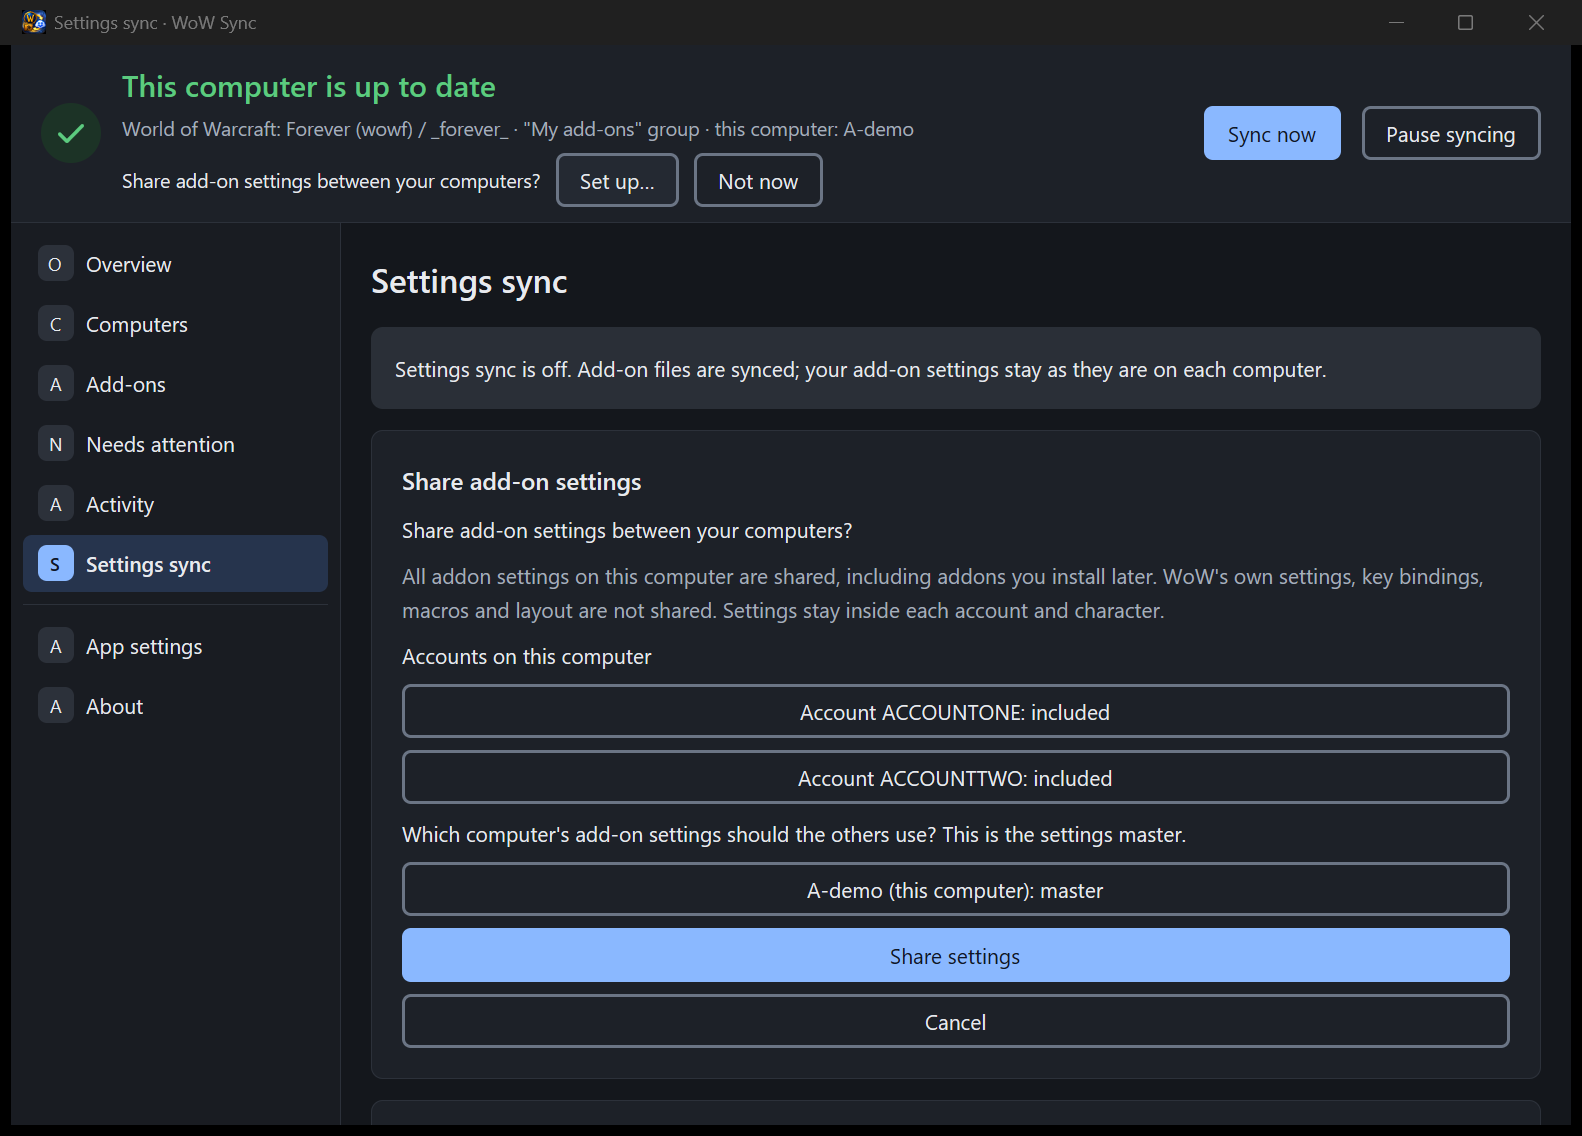
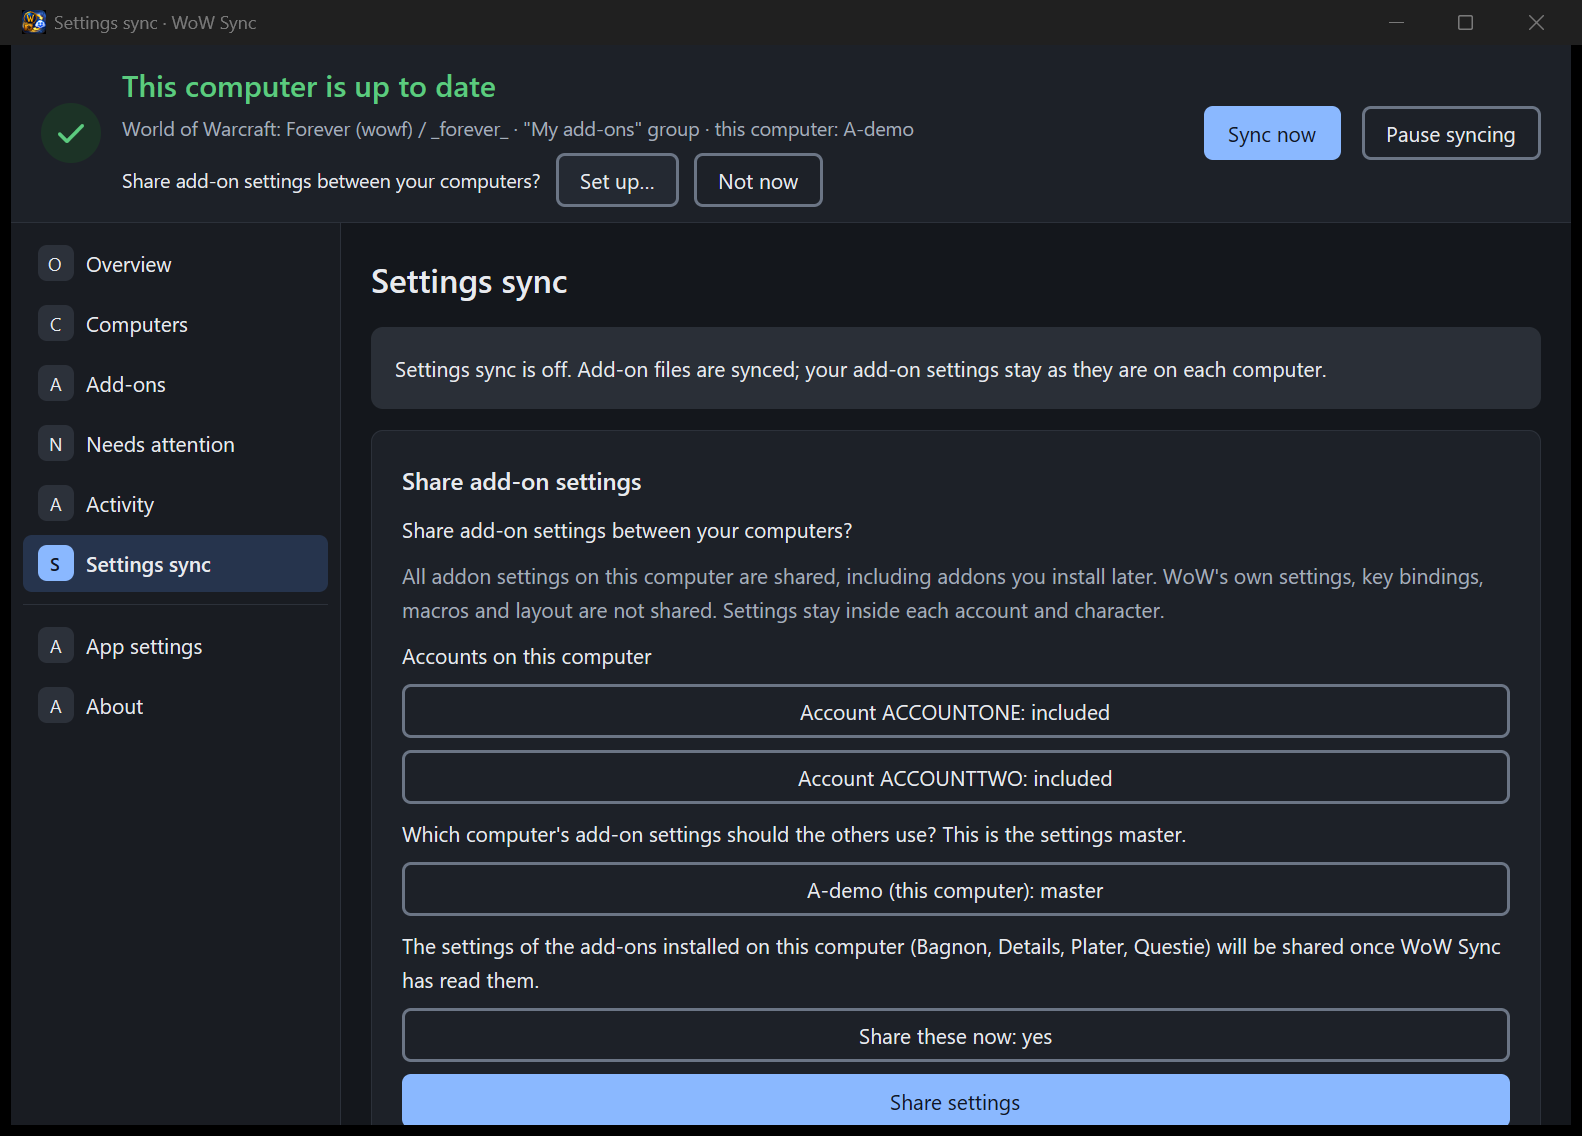
run011(R11-app): share once ready on guided consent, own-copy wording

Changed region(s): [[0.2478, 0.8011, 0.9602, 1.0]]

diff --git a/crates/wow-sync-app/src/settings_ui.rs b/crates/wow-sync-app/src/settings_ui.rs
@@ -20,7 +20,8 @@ pub enum UnitStatus {
     /// Syncing here right now.
     Active,
     InSync {
-        from: String,
+        /// None for this computer's own copy.
+        from: Option<String>,
     },
     Waiting {
         from: String,
@@ -145,7 +146,8 @@ pub fn status_text(s: &UnitStatus) -> String {
         UnitStatus::Off => "Settings not shared".into(),
         UnitStatus::Retired => "This computer is retired; its settings are not shared".into(),
         UnitStatus::Active => "Settings are syncing here".into(),
-        UnitStatus::InSync { from } => format!("Settings up to date (from {from})"),
+        UnitStatus::InSync { from: Some(from) } => format!("Settings up to date (from {from})"),
+        UnitStatus::InSync { from: None } => "Settings up to date".into(),
         UnitStatus::Waiting { from } => {
             format!("New settings from {from} will be used when WoW closes")
         }
@@ -780,6 +782,25 @@ pub fn pushes(cands: &[ShareCandidate], on: bool) -> Vec<SettingsUnit> {
     }
     cands.iter().map(|c| c.unit.clone()).collect()
 }
+/// Before settings sync is on nothing in WTF has been read, so the consent sheet can only say
+/// what will happen: the installed add-ons' settings are shared once WoW Sync has read them.
+pub fn will_share_line(w: &World) -> Option<String> {
+    if w.features.settings.enabled {
+        return None;
+    }
+    let mut names: Vec<&str> = w.addons.iter().map(|a| a.title.as_str()).collect();
+    names.sort_unstable();
+    names.dedup();
+    let list = match names.len() {
+        0 => String::new(),
+        n if n <= 6 => format!(" ({})", names.join(", ")),
+        n => format!(" ({} and {} more)", names[..6].join(", "), n - 6),
+    };
+    Some(format!(
+        "The settings of the add-ons installed on this computer{list} will be shared once WoW Sync has read them."
+    ))
+}
+
 /// "Make this computer the master": the confirmation's action. `share_now` is what the ticked
 /// "Share these now" box pushes after the policy is recorded.
 pub fn make_master_control(w: &World, share_now: Vec<SettingsUnit>) -> Control {
@@ -831,11 +852,11 @@ pub fn start_control(
             }
         }
     };
-    let push = match &master {
-        Some(m) if w.features.this_enrollment.as_ref() == Some(m) => {
-            pushes(&share_candidates(w), share_now)
-        }
-        _ => Vec::new(),
+    let this_master = matches!(&master, Some(m) if w.features.this_enrollment.as_ref() == Some(m));
+    let push = if this_master {
+        pushes(&share_candidates(w), share_now)
+    } else {
+        Vec::new()
     };
     control(
         w,
@@ -846,6 +867,7 @@ pub fn start_control(
             exceptions: w.features.settings.exceptions.clone(),
             included_accounts: listed,
             share_now: push,
+            share_when_ready: this_master && share_now,
         },
     )
 }
@@ -910,9 +932,13 @@ mod tests {
         assert_eq!(status_text(&UnitStatus::Off), "Settings not shared");
         assert_eq!(
             status_text(&UnitStatus::InSync {
-                from: "Den PC".into()
+                from: Some("Den PC".into())
             }),
             "Settings up to date (from Den PC)"
+        );
+        assert_eq!(
+            status_text(&UnitStatus::InSync { from: None }),
+            "Settings up to date"
         );
         assert_eq!(
             status_text(&UnitStatus::LocalDifferent(LocalReason::LocalChange)),
@@ -1087,7 +1113,7 @@ mod tests {
     fn restore_says_the_current_copy_is_kept() {
         let w = world();
         let mut r = unit(UnitStatus::InSync {
-            from: "Den PC".into(),
+            from: Some("Den PC".into()),
         });
         r.history = vec![Copy {
             checkpoint: Sha256([4; 32]),
@@ -1447,6 +1473,7 @@ mod tests {
                 exceptions: vec![],
                 included_accounts: all.to_vec(),
                 share_now: vec![],
+                share_when_ready: false,
             })
         );
         let den_pick = start_control(&w, &Offer::Share, &["ZED".into()], Some(1), false);
@@ -1457,6 +1484,7 @@ mod tests {
                 exceptions: vec![],
                 included_accounts: vec!["ZED".into()],
                 share_now: vec![],
+                share_when_ready: false,
             })
         );
         assert_eq!(
@@ -1478,6 +1506,7 @@ mod tests {
                 exceptions: vec![],
                 included_accounts: vec!["ACC".into()],
                 share_now: vec![],
+                share_when_ready: false,
             })
         );
         let GroupAction::StartSettings {
@@ -1491,7 +1520,8 @@ mod tests {
                 master: None,
                 exceptions: vec![],
                 included_accounts: included_accounts.clone(),
-                share_now: vec![]
+                share_now: vec![],
+                share_when_ready: false,
             }
             .to_command(),
             wow_sync_runtime::Command::EnableSettings { included_accounts }
@@ -1547,7 +1577,7 @@ mod tests {
         assert_eq!(addon_settings_line(&w, "Details"), "Not shared yet");
         w.features.settings.units = vec![
             unit(UnitStatus::InSync {
-                from: "Den PC".into(),
+                from: Some("Den PC".into()),
             }),
             {
                 let mut u = unit(UnitStatus::WaitingForIdentity {
@@ -1657,6 +1687,33 @@ mod tests {
     }
 
     #[test]
+    fn the_guided_consent_asks_to_share_once_ready_only_for_this_master() {
+        let w = offer_world(|_| {});
+        let all = ["ACC".to_string()];
+        let ready = |c: Control| match c.action {
+            Ok(GroupAction::StartSettings {
+                share_when_ready, ..
+            }) => share_when_ready,
+            other => panic!("{other:?}"),
+        };
+        assert!(first_adoption(&w));
+        assert!(ready(start_control(&w, &Offer::Share, &all, None, true)));
+        assert!(!ready(start_control(&w, &Offer::Share, &all, None, false)));
+        assert!(!ready(start_control(
+            &w,
+            &Offer::Share,
+            &all,
+            Some(1),
+            true
+        )));
+        let line = will_share_line(&w).unwrap();
+        assert!(line.contains("will be shared once WoW Sync has read them"));
+        let mut on = w.clone();
+        on.features.settings.enabled = true;
+        assert_eq!(will_share_line(&on), None);
+    }
+
+    #[test]
     fn the_guided_consent_pushes_only_when_this_computer_is_the_master() {
         let mut w = offer_world(|_| {});
         with_one_to_share(&mut w);
@@ -1742,8 +1799,12 @@ mod tests {
         assert_eq!(
             map(s).status,
             UnitStatus::InSync {
-                from: "Den PC".into()
+                from: Some("Den PC".into())
             }
+        );
+        assert_eq!(
+            map(runtime_row(S::InSync)).status,
+            UnitStatus::InSync { from: None }
         );
     }
 }

diff --git a/crates/wow-sync-app/src/pages.rs b/crates/wow-sync-app/src/pages.rs
@@ -2407,14 +2407,20 @@ impl Shell {
     /// checkbox that is on only for the first adoption. Empty when there is nothing to list.
     fn share_now_block(&mut self, cx: &mut Context<Self>) -> (Vec<AnyElement>, bool) {
         let cands = crate::settings_ui::share_candidates(&self.w);
-        if cands.is_empty() {
+        let will = crate::settings_ui::will_share_line(&self.w);
+        if cands.is_empty() && will.is_none() {
             return (Vec::new(), false);
         }
         let flipped = self.expanded.contains("ss-sharenow-flip");
         let on = crate::settings_ui::share_now_on(&self.w, flipped);
-        let mut els: Vec<AnyElement> = vec![div()
+        let mut els: Vec<AnyElement> = Vec::new();
+        if let Some(line) = will {
+            els.push(div().child(line).into_any_element());
+        } else {
+            els.push(div()
             .child("Becoming the master shares nothing by itself. These add-ons' settings here differ from the group's or have no shared copy:")
-            .into_any_element()];
+            .into_any_element());
+        }
         for c in &cands {
             els.push(self.muted(c.line.clone()).into_any_element());
         }

diff --git a/crates/wow-sync-app/src/features.rs b/crates/wow-sync-app/src/features.rs
@@ -181,6 +181,9 @@ pub enum GroupAction {
         exceptions: Vec<PolicyRule>,
         included_accounts: Vec<String>,
         share_now: Vec<SettingsUnit>,
+        /// Settings sync is only now being enabled, so nothing can be listed yet: ask the
+        /// runtime to share every captured add-on without a shared copy once it has read them.
+        share_when_ready: bool,
     },
     PauseSettings {
         folder: FolderKey,
@@ -783,10 +786,7 @@ pub fn settings_unit_rows(
                     S::LocalDifferent(reason) => UnitStatus::LocalDifferent(reason),
                     S::NoSharedCopy => UnitStatus::NoSharedCopy,
                     S::InSync => UnitStatus::InSync {
-                        from: r
-                            .in_sync_from
-                            .clone()
-                            .unwrap_or_else(|| "another computer".into()),
+                        from: r.in_sync_from.clone(),
                     },
                     S::Active => UnitStatus::Active,
                 },

diff --git a/crates/wow-sync-app/src/backend.rs b/crates/wow-sync-app/src/backend.rs
@@ -66,6 +66,7 @@ pub fn dispatch(svc: &mut SliceService, a: &GroupAction) -> ActionResult {
             master: Some(master),
             exceptions,
             share_now,
+            share_when_ready,
             ..
         } => svc
             .command(a.to_command())
@@ -75,7 +76,14 @@ pub fn dispatch(svc: &mut SliceService, a: &GroupAction) -> ActionResult {
                     exceptions: exceptions.clone(),
                 })
             })
-            .and_then(|o| push_now(svc, share_now, o)),
+            .and_then(|o| push_now(svc, share_now, o))
+            .and_then(|o| {
+                if *share_when_ready {
+                    svc.command(wow_sync_runtime::Command::ShareSettingsWhenReady)
+                } else {
+                    Ok(o)
+                }
+            }),
         GroupAction::SetSettingsPolicy { share_now, .. } => svc
             .command(a.to_command())
             .and_then(|o| push_now(svc, share_now, o)),

diff --git a/docs/runs/run-011/evidence/R11-app.md b/docs/runs/run-011/evidence/R11-app.md
@@ -119,3 +119,12 @@ Both tiers pass.
 ### Decisions
 - Decision: drop "of" in the local-copy restore sentence. Why: label already says "copy from <day>". Reversible: yes.
 - Decision: leave D4 unchanged. Why: runtime/design question about self-source; low impact. Reversible: yes.
+
+## Re-check against runtime 9ac5912 (D1, D2, D4)
+
+Wired: `StartSettings.share_when_ready` (this computer is master and "Share these now" is ticked, on by default on first adoption) sends `Command::ShareSettingsWhenReady` after `EnableSettings` and the policy. The consent sheet says "The settings of the add-ons installed on this computer (<names>) will be shared once WoW Sync has read them." `UnitStatus::InSync.from` is now optional; the master's own copy reads "Settings up to date".
+Tests that fail without the change (mutation-checked): `the_guided_consent_asks_to_share_once_ready_only_for_this_master` (when_ready forced false fails), `the_runtimes_new_statuses_and_local_copies_reach_the_controls` (own-copy mapping given a source fails), `status_words_follow_the_design`.
+Live (fresh synthetic lab, own state): guided first adoption with the box ticked shared all units without any further click (a2-consent); Activity shows "Saved settings shared" rows with identity, hash version, size (a-activity-expanded); the master reads "Settings up to date" and Plater's 34 MB file reads "Too large to share automatically (34.0 MB)" (a-master-wording). Privacy-checked by viewing.
+Open (runtime): a settings publish from this computer shows the source text "pushed to this computer" (reason PeerPush, no source). Expected wording that says it was shared from this computer; the reason or source for a ShareSettingsWhenReady push needs to say so.
+Decision: when no settings units exist yet the consent lists installed add-on titles (at most 6, then "and N more"). Why: nothing in WTF may be read before consent. Reversible: yes.
+Decision: `share_when_ready` is only requested when this computer is the chosen master. Why: another master's copy must never be pushed from here. Reversible: yes.
